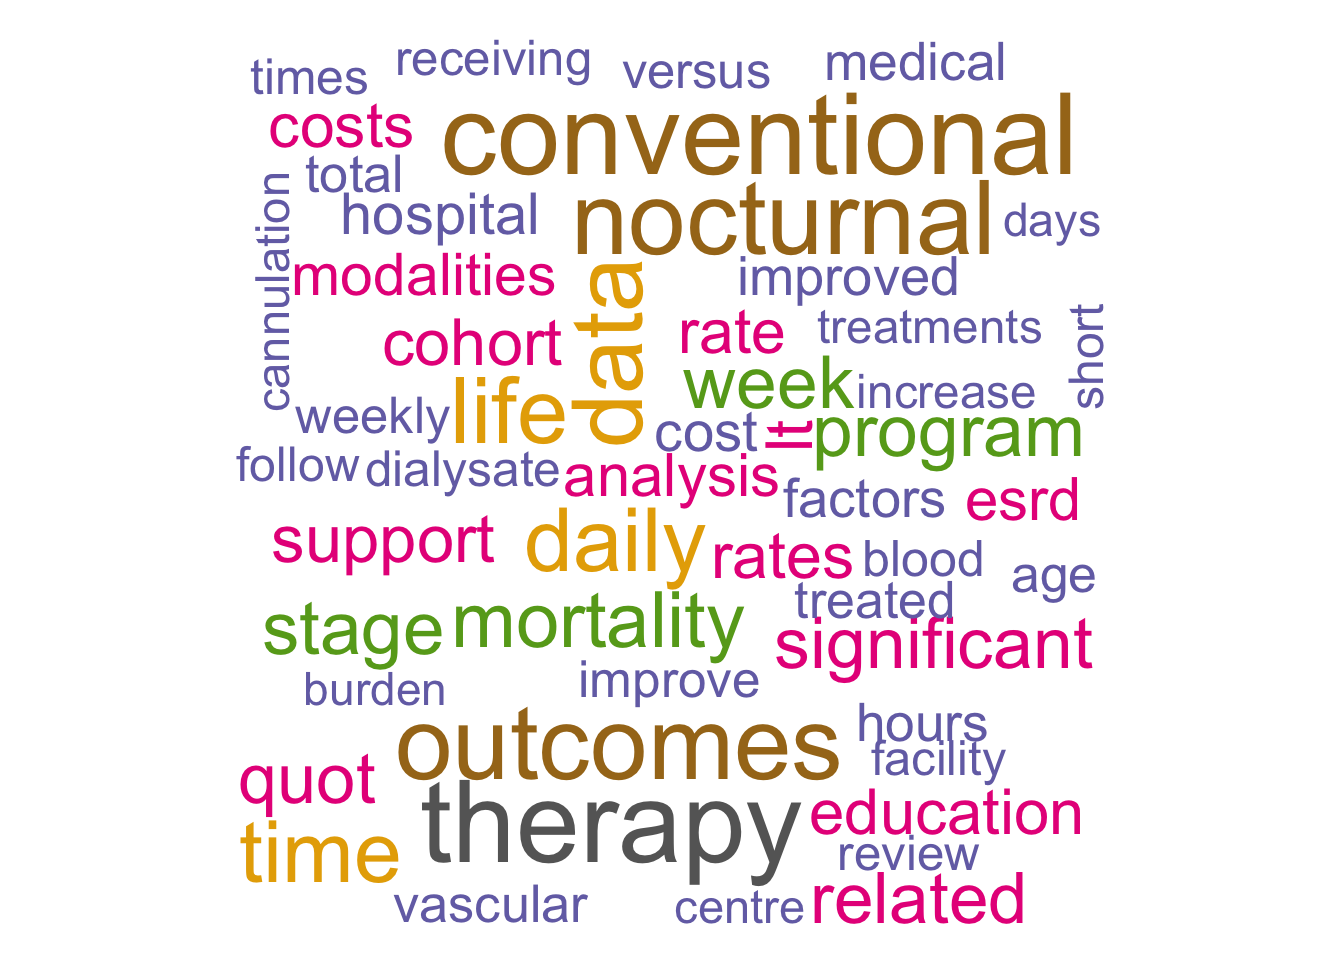
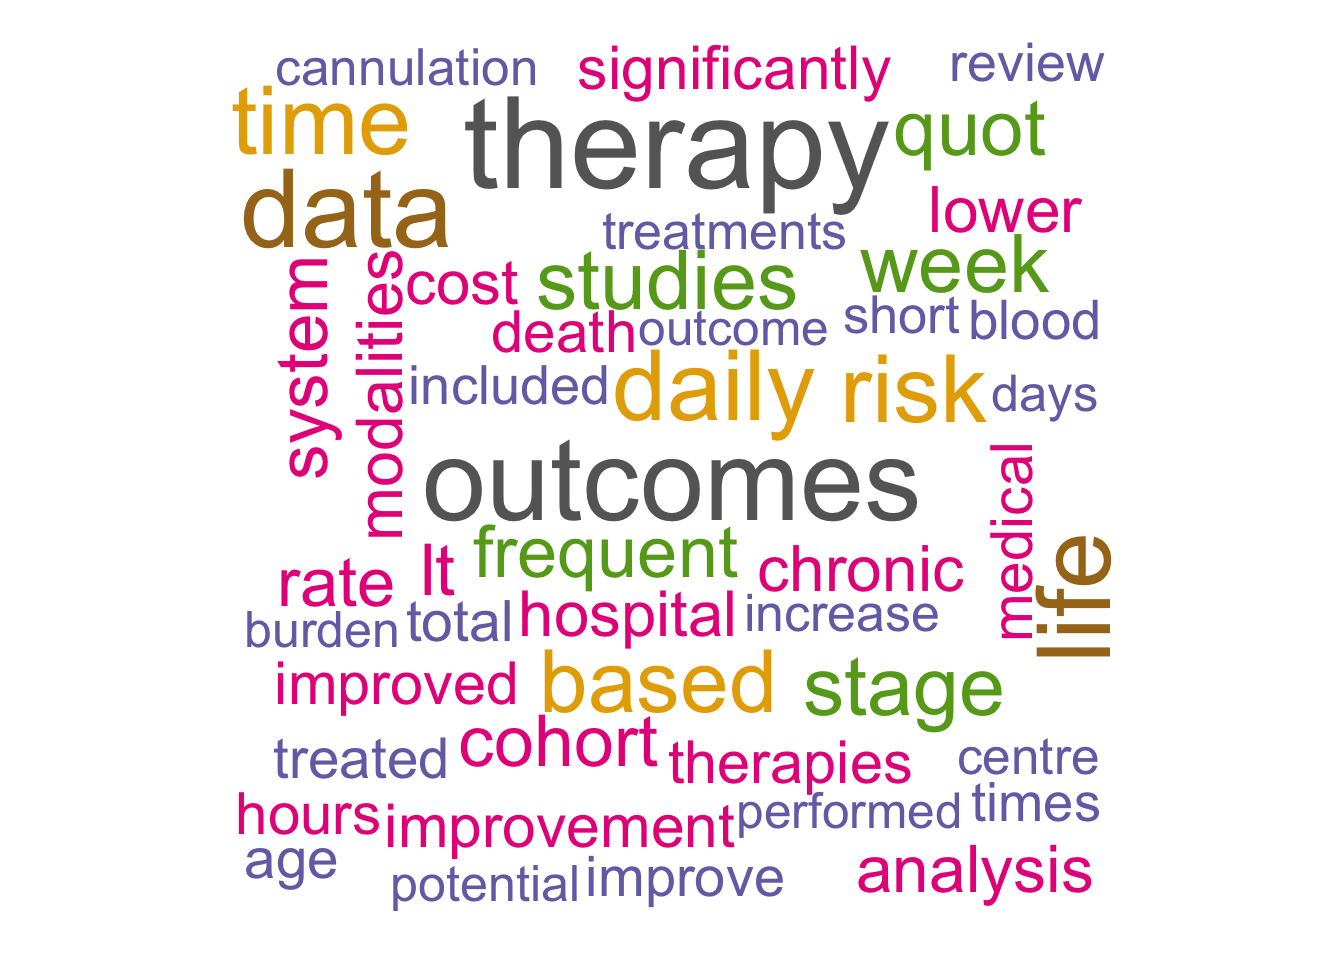
web scraping

Changed region(s): [[0.1562, 0.0312, 0.8438, 0.9688]]

diff --git a/book/bagofwords.html b/book/bagofwords.html
@@ -48,14 +48,6 @@
 
 
 
-<script src="libs/htmlwidgets-1.3/htmlwidgets.js"></script>
-<link href="libs/leaflet-1.3.1/leaflet.css" rel="stylesheet" />
-<script src="libs/leaflet-1.3.1/leaflet.js"></script>
-<link href="libs/leafletfix-1.0.0/leafletfix.css" rel="stylesheet" />
-<script src="libs/Proj4Leaflet-1.0.1/proj4-compressed.js"></script>
-<script src="libs/Proj4Leaflet-1.0.1/proj4leaflet.js"></script>
-<link href="libs/rstudio_leaflet-1.3.1/rstudio_leaflet.css" rel="stylesheet" />
-<script src="libs/leaflet-binding-2.0.2/leaflet.js"></script>
 
 
 <style type="text/css">
@@ -215,6 +207,14 @@ code > span.in { color: #60a0b0; font-weight: bold; font-style: italic; } /* Inf
 <li>They all offer similar capabilities</li>
 <li>We’ll look at tidytext</li>
 </ul>
+<pre><code>## 
+## Attaching package: &#39;dplyr&#39;</code></pre>
+<pre><code>## The following objects are masked from &#39;package:stats&#39;:
+## 
+##     filter, lag</code></pre>
+<pre><code>## The following objects are masked from &#39;package:base&#39;:
+## 
+##     intersect, setdiff, setequal, union</code></pre>
 </div>
 <div id="simple-example" class="section level2">
 <h2><span class="header-section-number">5.2</span> Simple Example</h2>
@@ -224,8 +224,9 @@ code > span.in { color: #60a0b0; font-weight: bold; font-style: italic; } /* Inf
 </div>
 <p>Find the URL for Lincoln’s March 4, 1865 Speech:</p>
 <div class="sourceCode"><pre class="sourceCode r"><code class="sourceCode r">url &lt;-<span class="st"> &quot;https://millercenter.org/the-presidency/presidential-speeches/march-4-1865-second-inaugural-address&quot;</span>
-<span class="kw">library</span>(rvest)
-lincoln_doc &lt;-<span class="st"> </span><span class="kw">read_html</span>(url) <span class="op">%&gt;%</span>
+<span class="kw">library</span>(rvest)</code></pre></div>
+<pre><code>## Loading required package: xml2</code></pre>
+<div class="sourceCode"><pre class="sourceCode r"><code class="sourceCode r">lincoln_doc &lt;-<span class="st"> </span><span class="kw">read_html</span>(url) <span class="op">%&gt;%</span>
 <span class="st">                    </span><span class="kw">html_nodes</span>(<span class="st">&quot;.view-transcript&quot;</span>) <span class="op">%&gt;%</span>
 <span class="st">                    </span><span class="kw">html_text</span>()
 lincoln_doc</code></pre></div>
@@ -284,11 +285,17 @@ word_vec &lt;-<span class="st"> </span>word_vec[word_vec <span class="op">!=</sp
 <div id="tidytext" class="section level2">
 <h2><span class="header-section-number">5.3</span> tidytext</h2>
 <p>So the tidytext package provides some accomodations to convert your body of text into individual <strong>tokens</strong> which then simplfies the removal of less meaningful words and the creation of word frequency counts. The first thing you do is to create a data frame where the there is one line for each body of text. In this case we have only one long string of text this will be a one line data frame.</p>
-<div class="sourceCode"><pre class="sourceCode r"><code class="sourceCode r"><span class="kw">library</span>(tidytext)
-<span class="kw">library</span>(tidyr)
-text_df &lt;-<span class="st"> </span><span class="kw">data_frame</span>(<span class="dt">line =</span> <span class="dv">1</span><span class="op">:</span><span class="kw">length</span>(lincoln_doc), <span class="dt">text =</span> lincoln_doc)
-
-text_df</code></pre></div>
+<div class="sourceCode"><pre class="sourceCode r"><code class="sourceCode r"><span class="kw">library</span>(tidytext)</code></pre></div>
+<pre><code>## 
+## Attaching package: &#39;tidytext&#39;</code></pre>
+<pre><code>## The following object is masked _by_ &#39;.GlobalEnv&#39;:
+## 
+##     stop_words</code></pre>
+<div class="sourceCode"><pre class="sourceCode r"><code class="sourceCode r"><span class="kw">library</span>(tidyr)
+text_df &lt;-<span class="st"> </span><span class="kw">data_frame</span>(<span class="dt">line =</span> <span class="dv">1</span><span class="op">:</span><span class="kw">length</span>(lincoln_doc), <span class="dt">text =</span> lincoln_doc)</code></pre></div>
+<pre><code>## Warning: `data_frame()` is deprecated, use `tibble()`.
+## This warning is displayed once per session.</code></pre>
+<div class="sourceCode"><pre class="sourceCode r"><code class="sourceCode r">text_df</code></pre></div>
 <pre><code>## # A tibble: 1 x 2
 ##    line text                                                               
 ##   &lt;int&gt; &lt;chr&gt;                                                              
@@ -321,18 +328,18 @@ token_text <span class="op">%&gt;%</span><span class="st"> </span><span class="k
 
 stop_words <span class="op">%&gt;%</span><span class="st"> </span><span class="kw">sample_n</span>(<span class="dv">40</span>)</code></pre></div>
 <pre><code>## # A tibble: 40 x 2
-##    word     lexicon 
-##    &lt;chr&gt;    &lt;chr&gt;   
-##  1 somewhat SMART   
-##  2 will     SMART   
-##  3 over     snowball
-##  4 her      snowball
-##  5 those    SMART   
-##  6 thought  onix    
-##  7 j        SMART   
-##  8 some     onix    
-##  9 uucp     SMART   
-## 10 contains SMART   
+##    word   lexicon 
+##    &lt;chr&gt;  &lt;chr&gt;   
+##  1 doing  SMART   
+##  2 having SMART   
+##  3 best   SMART   
+##  4 give   onix    
+##  5 she    SMART   
+##  6 later  SMART   
+##  7 unless SMART   
+##  8 with   snowball
+##  9 likely SMART   
+## 10 men    onix    
 ## # … with 30 more rows</code></pre>
 <div class="sourceCode"><pre class="sourceCode r"><code class="sourceCode r"><span class="co"># Now remove stop words from the document</span>
 
@@ -447,24 +454,24 @@ tidy_text <span class="op">%&gt;%</span>
 <span class="st">   </span><span class="kw">filter</span>(<span class="op">!</span>word <span class="op">%in%</span><span class="st"> </span><span class="kw">c</span>(stop_words<span class="op">$</span>word,<span class="st">&quot;dialysis&quot;</span>,<span class="st">&quot;patients&quot;</span>,<span class="st">&quot;home&quot;</span>,<span class="st">&quot;kidney&quot;</span>,
                        <span class="st">&quot;hemodialysis&quot;</span>,<span class="st">&quot;haemodialysis&quot;</span>,<span class="st">&quot;patient&quot;</span>,<span class="st">&quot;hhd&quot;</span>,
                        <span class="st">&quot;pd&quot;</span>,<span class="st">&quot;peritoneal&quot;</span>,<span class="st">&quot;hd&quot;</span>,<span class="st">&quot;renal&quot;</span>,<span class="st">&quot;study&quot;</span>,<span class="st">&quot;care&quot;</span>,
-                       <span class="st">&quot;ci&quot;</span>,<span class="st">&quot;chd&quot;</span>,<span class="st">&quot;nhd&quot;</span>,<span class="st">&quot;disease&quot;</span>))
+                       <span class="st">&quot;ci&quot;</span>,<span class="st">&quot;chd&quot;</span>,<span class="st">&quot;nhd&quot;</span>,<span class="st">&quot;disease&quot;</span>,<span class="st">&quot;treatment&quot;</span>))
 
 tidy_text <span class="op">%&gt;%</span>
 <span class="st">  </span><span class="kw">count</span>(word, <span class="dt">sort =</span> <span class="ot">TRUE</span>) </code></pre></div>
-<pre><code>## # A tibble: 6,442 x 2
+<pre><code>## # A tibble: 6,441 x 2
 ##    word             n
 ##    &lt;chr&gt;        &lt;int&gt;
-##  1 treatment      219
-##  2 therapy        193
-##  3 conventional   191
-##  4 survival       191
-##  5 center         186
-##  6 compared       180
-##  7 clinical       175
-##  8 nocturnal      171
-##  9 outcomes       171
-## 10 quality        171
-## # … with 6,432 more rows</code></pre>
+##  1 therapy        193
+##  2 conventional   191
+##  3 survival       191
+##  4 center         186
+##  5 compared       180
+##  6 clinical       175
+##  7 nocturnal      171
+##  8 outcomes       171
+##  9 quality        171
+## 10 data           161
+## # … with 6,431 more rows</code></pre>
 <p>Let’s do some plotting of these words</p>
 <div class="sourceCode"><pre class="sourceCode r"><code class="sourceCode r"><span class="kw">library</span>(ggplot2)
 tidy_text <span class="op">%&gt;%</span>
@@ -478,8 +485,8 @@ tidy_text <span class="op">%&gt;%</span>
 <p><img src="Web_Scraping_files/figure-html/bow9-1.png" width="672" /></p>
 <p>Okay, it looks like there are numbers in there which might be useful. I suspect that the “95” is probably associated with the idea of a confidence interval. But there are other references to numbers.</p>
 <div class="sourceCode"><pre class="sourceCode r"><code class="sourceCode r"><span class="kw">grep</span>(<span class="st">&quot;^[0-9]{1,3}$&quot;</span>,tidy_text<span class="op">$</span>word)[<span class="dv">1</span><span class="op">:</span><span class="dv">20</span>]</code></pre></div>
-<pre><code>##  [1]  10 276 278 287 291 296 299 308 311 390 391 557 617 674 682 683 685
-## [18] 747 761 765</code></pre>
+<pre><code>##  [1]   9 273 275 284 288 293 296 305 308 387 388 554 614 671 679 680 682
+## [18] 744 758 762</code></pre>
 <div class="sourceCode"><pre class="sourceCode r"><code class="sourceCode r">tidy_text_nonum &lt;-<span class="st"> </span>tidy_text[<span class="kw">grep</span>(<span class="st">&quot;^[0-9]{1,3}$&quot;</span>,tidy_text<span class="op">$</span>word,<span class="dt">invert=</span><span class="ot">TRUE</span>),]</code></pre></div>
 <p>Okay well I think maybe we have some reasonable data to examine. As you might have realized by now, manipulating data to get it “clean” can be tedious and frustrating though it is an inevitable part of the process.</p>
 <div class="sourceCode"><pre class="sourceCode r"><code class="sourceCode r">tidy_text_nonum <span class="op">%&gt;%</span>
@@ -497,78 +504,78 @@ tidy_text <span class="op">%&gt;%</span>
 <div class="sourceCode"><pre class="sourceCode r"><code class="sourceCode r"><span class="co"># NRC Emotion Lexicon from Saif Mohammad and Peter Turney</span>
 <span class="kw">get_sentiments</span>(<span class="st">&quot;nrc&quot;</span>) <span class="op">%&gt;%</span><span class="st"> </span><span class="kw">sample_n</span>(<span class="dv">20</span>)</code></pre></div>
 <pre><code>## # A tibble: 20 x 2
-##    word        sentiment   
-##    &lt;chr&gt;       &lt;chr&gt;       
-##  1 venom       disgust     
-##  2 burglary    negative    
-##  3 cautious    anticipation
-##  4 intense     surprise    
-##  5 solace      positive    
-##  6 coincidence surprise    
-##  7 disposed    trust       
-##  8 underpaid   sadness     
-##  9 illicit     disgust     
-## 10 interviewer fear        
-## 11 intrusive   surprise    
-## 12 physiology  positive    
-## 13 demolish    anger       
-## 14 parade      joy         
-## 15 locust      fear        
-## 16 minimize    negative    
-## 17 gulp        fear        
-## 18 grim        sadness     
-## 19 pry         anticipation
-## 20 conjuring   negative</code></pre>
+##    word           sentiment   
+##    &lt;chr&gt;          &lt;chr&gt;       
+##  1 rehabilitation positive    
+##  2 troublesome    anger       
+##  3 completeness   positive    
+##  4 disgraced      negative    
+##  5 humanity       joy         
+##  6 respecting     positive    
+##  7 architecture   trust       
+##  8 lose           disgust     
+##  9 civil          positive    
+## 10 phantom        fear        
+## 11 swelling       fear        
+## 12 cardiomyopathy fear        
+## 13 violence       anger       
+## 14 payment        negative    
+## 15 board          anticipation
+## 16 helmet         fear        
+## 17 prudent        trust       
+## 18 panier         positive    
+## 19 glimmer        positive    
+## 20 cove           anticipation</code></pre>
 <div class="sourceCode"><pre class="sourceCode r"><code class="sourceCode r"><span class="co"># the sentiment lexicon from Bing Liu and collaborators</span>
 <span class="kw">get_sentiments</span>(<span class="st">&quot;bing&quot;</span>) <span class="op">%&gt;%</span><span class="st"> </span><span class="kw">sample_n</span>(<span class="dv">20</span>)</code></pre></div>
 <pre><code>## # A tibble: 20 x 2
-##    word             sentiment
-##    &lt;chr&gt;            &lt;chr&gt;    
-##  1 misunderstanding negative 
-##  2 uneasy           negative 
-##  3 outcry           negative 
-##  4 busts            negative 
-##  5 fortunately      positive 
-##  6 foolish          negative 
-##  7 crisp            positive 
-##  8 fried            negative 
-##  9 depressed        negative 
-## 10 exasperated      negative 
-## 11 unproved         negative 
-## 12 crash            negative 
-## 13 diffidence       negative 
-## 14 rattled          negative 
-## 15 falsehood        negative 
-## 16 impious          negative 
-## 17 lethal           negative 
-## 18 delicate         positive 
-## 19 reasonable       positive 
-## 20 dazzled          positive</code></pre>
+##    word         sentiment
+##    &lt;chr&gt;        &lt;chr&gt;    
+##  1 stately      positive 
+##  2 loot         negative 
+##  3 leakage      negative 
+##  4 cheer        positive 
+##  5 unfamiliar   negative 
+##  6 pleasure     positive 
+##  7 led          positive 
+##  8 stresses     negative 
+##  9 hearten      positive 
+## 10 clunky       negative 
+## 11 hollow       negative 
+## 12 skeletons    negative 
+## 13 unproductive negative 
+## 14 catchy       positive 
+## 15 tremendously positive 
+## 16 navigable    positive 
+## 17 fulminate    negative 
+## 18 beg          negative 
+## 19 bravo        positive 
+## 20 meticulous   positive</code></pre>
 <div class="sourceCode"><pre class="sourceCode r"><code class="sourceCode r"><span class="co"># Tim Loughran and Bill McDonald</span>
 <span class="kw">get_sentiments</span>(<span class="st">&quot;loughran&quot;</span>) <span class="op">%&gt;%</span><span class="st"> </span><span class="kw">sample_n</span>(<span class="dv">20</span>)</code></pre></div>
 <pre><code>## # A tibble: 20 x 2
-##    word          sentiment  
-##    &lt;chr&gt;         &lt;chr&gt;      
-##  1 intermittent  negative   
-##  2 coercing      negative   
-##  3 effective     positive   
-##  4 motions       litigious  
-##  5 devastate     negative   
-##  6 confusing     negative   
-##  7 empower       positive   
-##  8 indicted      litigious  
-##  9 beneficiated  litigious  
-## 10 summoning     negative   
-## 11 arbitrates    litigious  
-## 12 imprecisions  uncertainty
-## 13 assuming      uncertainty
-## 14 confusion     uncertainty
-## 15 corruptly     negative   
-## 16 arrearages    negative   
-## 17 danger        negative   
-## 18 circumvention negative   
-## 19 appeal        litigious  
-## 20 aggravating   negative</code></pre>
+##    word           sentiment  
+##    &lt;chr&gt;          &lt;chr&gt;      
+##  1 misjudging     negative   
+##  2 abnormal       negative   
+##  3 restate        negative   
+##  4 dissenting     negative   
+##  5 prosecuted     litigious  
+##  6 risky          uncertainty
+##  7 inconveniences negative   
+##  8 deviate        uncertainty
+##  9 suspect        negative   
+## 10 derogating     litigious  
+## 11 controvert     litigious  
+## 12 misusing       negative   
+## 13 dissolution    negative   
+## 14 reassessment   uncertainty
+## 15 ineffective    negative   
+## 16 improves       positive   
+## 17 provisoes      litigious  
+## 18 disagreeing    negative   
+## 19 interrogators  litigious  
+## 20 outage         negative</code></pre>
 <div class="sourceCode"><pre class="sourceCode r"><code class="sourceCode r"><span class="co"># Pull out words that correspond to joy</span>
 nrc_joy &lt;-<span class="st"> </span><span class="kw">get_sentiments</span>(<span class="st">&quot;nrc&quot;</span>) <span class="op">%&gt;%</span><span class="st"> </span>
 <span class="st">  </span><span class="kw">filter</span>(sentiment <span class="op">==</span><span class="st"> &quot;joy&quot;</span>)
@@ -646,7 +653,7 @@ bigrams_sep &lt;-<span class="st"> </span>dialysis_bigrams <span class="op">%&gt
 <span class="st">  </span><span class="kw">separate</span>(bigram,<span class="kw">c</span>(<span class="st">&quot;word1&quot;</span>,<span class="st">&quot;word2&quot;</span>),<span class="dt">sep=</span><span class="st">&quot; &quot;</span>)
 
 stop_list &lt;-<span class="st"> </span><span class="kw">c</span>(stop_words<span class="op">$</span>word,<span class="st">&quot;dialysis&quot;</span>,<span class="st">&quot;patients&quot;</span>,<span class="st">&quot;home&quot;</span>,<span class="st">&quot;kidney&quot;</span>,
-                       <span class="st">&quot;hemodialysis&quot;</span>,<span class="st">&quot;haemodialysis&quot;</span>,<span class="st">&quot;patient&quot;</span>,<span class="st">&quot;hhd&quot;</span>,
+                       <span class="st">&quot;hemodialysis&quot;</span>,<span class="st">&quot;haemodialysis&quot;</span>,<span class="st">&quot;treatment&quot;</span>,<span class="st">&quot;patient&quot;</span>,<span class="st">&quot;hhd&quot;</span>,
                        <span class="st">&quot;pd&quot;</span>,<span class="st">&quot;peritoneal&quot;</span>,<span class="st">&quot;hd&quot;</span>,<span class="st">&quot;renal&quot;</span>,<span class="st">&quot;study&quot;</span>,<span class="st">&quot;care&quot;</span>,
                        <span class="st">&quot;ci&quot;</span>,<span class="st">&quot;chd&quot;</span>,<span class="st">&quot;nhd&quot;</span>,<span class="st">&quot;esrd&quot;</span>,<span class="st">&quot;lt&quot;</span>,<span class="st">&quot;95&quot;</span>,<span class="st">&quot;0.001&quot;</span>)
 
@@ -661,7 +668,7 @@ bigrams_united &lt;-<span class="st"> </span>bigrams_filtered <span class="op">%
 <span class="st">  </span><span class="kw">unite</span>(bigram, word1, word2, <span class="dt">sep =</span> <span class="st">&quot; &quot;</span>)
 
 bigrams_united <span class="op">%&gt;%</span><span class="st">  </span><span class="kw">count</span>(bigram, <span class="dt">sort =</span> <span class="ot">TRUE</span>) <span class="op">%&gt;%</span><span class="st"> </span><span class="kw">print</span>(<span class="dt">n=</span><span class="dv">25</span>)</code></pre></div>
-<pre><code>## # A tibble: 11,957 x 2
+<pre><code>## # A tibble: 11,842 x 2
 ##    bigram                     n
 ##    &lt;chr&gt;                  &lt;int&gt;
 ##  1 replacement therapy       71
@@ -689,9 +696,12 @@ bigrams_united <span class="op">%&gt;%</span><span class="st">  </span><span cla
 ## 23 retrospective cohort      15
 ## 24 cost effectiveness        14
 ## 25 daily life                14
-## # … with 1.193e+04 more rows</code></pre>
-<div class="sourceCode"><pre class="sourceCode r"><code class="sourceCode r"><span class="kw">library</span>(tidyquant)
-bigram_counts <span class="op">%&gt;%</span>
+## # … with 1.182e+04 more rows</code></pre>
+<div class="sourceCode"><pre class="sourceCode r"><code class="sourceCode r"><span class="kw">library</span>(tidyquant)</code></pre></div>
+<pre><code>## Warning: package &#39;tibble&#39; was built under R version 3.5.2</code></pre>
+<pre><code>## Warning: package &#39;purrr&#39; was built under R version 3.5.2</code></pre>
+<pre><code>## Warning: package &#39;stringr&#39; was built under R version 3.5.2</code></pre>
+<div class="sourceCode"><pre class="sourceCode r"><code class="sourceCode r">bigram_counts <span class="op">%&gt;%</span>
 <span class="st">  </span><span class="kw">filter</span>(n <span class="op">&gt;</span><span class="st"> </span><span class="dv">30</span>) <span class="op">%&gt;%</span>
 <span class="st">  </span><span class="kw">ggplot</span>(<span class="kw">aes</span>(<span class="dt">x =</span> <span class="kw">reorder</span>(word1, <span class="op">-</span>n), <span class="dt">y =</span> <span class="kw">reorder</span>(word2, <span class="op">-</span>n), <span class="dt">fill =</span> n)) <span class="op">+</span>
 <span class="st">    </span><span class="kw">geom_tile</span>(<span class="dt">alpha =</span> <span class="fl">0.8</span>, <span class="dt">color =</span> <span class="st">&quot;white&quot;</span>) <span class="op">+</span>
